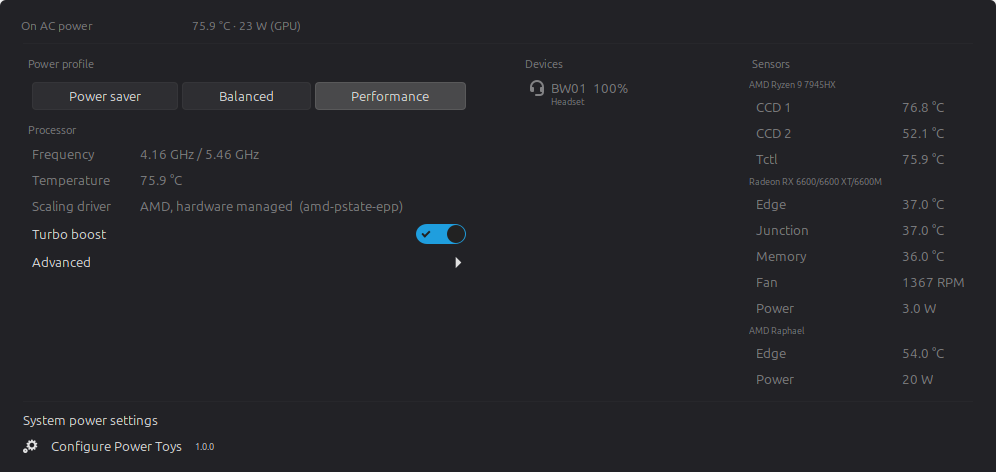
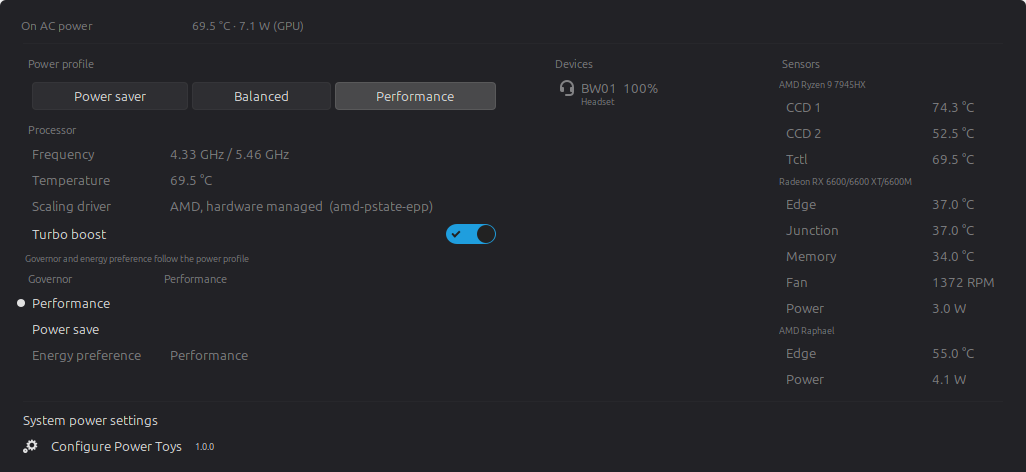
feat: show the processor settings instead of hiding them behind Advanced
The governor and the energy preference were behind a disclosure, on the
reasoning that they are what a profile sets and are rarely worth changing by
hand. What that produced was a menu that hid two of the processor's own
settings behind a click and gave no hint of what was under it - and a
disclosure is a promise that what is inside is different in kind, which these
are not. They are two more processor settings, and they are shown.

The line saying who writes them comes out with them and now names them:
sitting under the turbo boost switch, "set by the power profile" could be read
as covering the switch too, which power-profiles-daemon does not necessarily
touch. It appears only where a daemon is really holding them and there is
something for it to describe.

Notes stopped setting the width of the column they are in. A note is a
sentence, and a sentence in the first column made that column as wide as the
sentence and pushed every value in the group out to the right of it - this one
cost the menu a hundred pixels before NoteRow was taught to answer nothing
when the menu asks how wide its columns want to be. The monitor limit note is
the same widget and gains the same fix.

PopupSubMenuMenuItem is no longer used anywhere, so it leaves the list of
Cinnamon calls the README tracks against 5.4.

diff --git a/cinnamon-powertoys@geraldo-netto/applet.js b/cinnamon-powertoys@geraldo-netto/applet.js
@@ -604,6 +604,30 @@ class InfoRow extends PopupMenu.PopupBaseMenuItem {
 }
 
 /*
+ * A line about the rows around it rather than a row among them: how many
+ * monitors get a slider, who else is writing the two settings below.
+ *
+ * It answers nothing when the menu asks how wide its columns want to be. A
+ * note is a sentence, and a sentence in the first column made that column as
+ * wide as the sentence, pushing every value in the group out to the right of
+ * it - one remark cost the menu a hundred and thirty pixels. It takes whatever
+ * width the rows that mean something came to, and is cut off if it does not
+ * fit, which is the right way round.
+ */
+class NoteRow extends PopupMenu.PopupBaseMenuItem {
+    _init(text) {
+        super._init.call(this, { reactive: false });
+        this.actor.add_style_class_name("powertoys-note");
+        this._label = new St.Label({ text: text });
+        this.addActor(this._label, { span: -1, expand: true });
+    }
+
+    getColumnWidths() {
+        return [];
+    }
+}
+
+/*
  * Two line entry for one powered device: title with icon, details below.
  *
  * It is handed a view model and sets what it is told. It used to be handed
@@ -1201,11 +1225,16 @@ class MenuPresenter {
     /*
      * What the processor is doing, and what it has been told to do.
      *
-     * The profile above is what most people will ever touch; the governor and
-     * the energy preference are what a profile sets, and setting them by hand
-     * means overriding a daemon that will set them back. They are worth having
-     * and they are not worth four rows of a menu that is read at a glance, so
-     * they are behind Advanced.
+     * All of it, in the order it is asked about: the three readings, then the
+     * three things that can be changed.
+     *
+     * The governor and the energy preference were behind an *Advanced*
+     * disclosure, on the reasoning that they are what a profile sets and are
+     * rarely worth changing by hand. What that produced was a menu which hid
+     * two of the processor's own settings behind a click and gave no hint of
+     * what was under it - and a disclosure is a promise that what is inside is
+     * different in kind, which these are not. They are two more processor
+     * settings. They are shown.
      */
     _buildCpuGroup() {
         this._cpuGroup = this._performanceColumn.group(_("Processor"));
@@ -1224,28 +1253,29 @@ class MenuPresenter {
         this._boostSwitch.connect("toggled", (item, state) => this._actions.setBoost(state));
         menu.addMenuItem(this._boostSwitch);
 
-        this._advanced = new PopupMenu.PopupSubMenuMenuItem(_("Advanced"));
-        menu.addMenuItem(this._advanced);
-
         /*
-         * Who owns these two, said once, where they are.
+         * Who owns the two below, said where they are.
          *
-         * The profile above and the governor and energy preference in here
-         * read the same word - "Performance", three times over - because the
-         * first is what wrote the other two. Nothing in the menu said so, and
-         * three controls agreeing for no stated reason read as three copies of
-         * one setting. Only shown where a daemon is really holding them: the
-         * ACPI platform profile writes firmware and never touches cpufreq, and
-         * on a machine with no profiles at all these are the only controls
-         * there are.
+         * The profile at the top of this column and these two read the same
+         * word - "Performance", three times over - because the first is what
+         * wrote the other two. Three controls agreeing for no stated reason
+         * read as three copies of one setting. Both are named rather than the
+         * line saying "these", because it now sits under the boost switch,
+         * which power-profiles-daemon does not necessarily touch and which
+         * this must not be read as covering.
+         *
+         * Only shown where a daemon is really holding them: the ACPI platform
+         * profile writes firmware and never goes near cpufreq, and on a machine
+         * with no profiles at all these are the only controls there are.
          */
-        this._advancedNote = this._createNote(_("Set by the power profile"));
-        this._advanced.menu.addMenuItem(this._advancedNote);
+        this._governorNote =
+            this._createNote(_("Governor and energy preference follow the power profile"));
+        menu.addMenuItem(this._governorNote);
 
-        this._governorControl = new ChoiceControl(this._advanced.menu, _("Governor"),
+        this._governorControl = new ChoiceControl(menu, _("Governor"),
                                                   Format.governorLabel,
                                                   value => this._actions.setGovernor(value));
-        this._energyControl = new ChoiceControl(this._advanced.menu, _("Energy preference"),
+        this._energyControl = new ChoiceControl(menu, _("Energy preference"),
                                                 Format.energyPreferenceLabel,
                                                 value => this._actions.setEnergyPreference(value));
     }
@@ -1378,17 +1408,10 @@ class MenuPresenter {
         return heading;
     }
 
-    /*
-     * A line about the list rather than a line in it.
-     *
-     * Drawn at the weight of a reading, "Only the first 10 monitors have a
-     * slider" reads as an eleventh monitor called that. It is a footnote, and
-     * the only one in this menu, so it is quieter than what it follows.
-     */
+    /* Drawn at the weight of a reading, "Only the first 10 monitors have a
+     * slider" reads as an eleventh monitor called that. See NoteRow. */
     _createNote(text) {
-        let note = new PopupMenu.PopupMenuItem(text, { reactive: false });
-        note.actor.add_style_class_name("powertoys-note");
-        return note;
+        return new NoteRow(text);
     }
 
     _addBacklight(label, iconName, control) {
@@ -1542,23 +1565,14 @@ class MenuPresenter {
          * here holds until then and no longer. The two are left changeable,
          * because until then it does work and some people want it; what they
          * were not was honest about who else is writing them.
+         *
+         * The line goes with them, so it is not there when they are not: a
+         * machine with no cpufreq has neither row for it to describe.
          */
-        this._advancedNote.actor.visible = data.profile.available &&
-                                           !!data.profile.backend &&
-                                           data.profile.backend !== PowerSupply.PLATFORM_BACKEND;
-
-        /*
-         * Advanced is only there when there is something behind it. On a
-         * machine with no cpufreq governors to read, or with the privileged
-         * controls switched off and nothing to report either, it would open
-         * onto nothing - which is worse than not being offered.
-         */
-        let advanced = !!data.cpu.governor || !!data.cpu.energyPreference ||
-                       (editable && (data.cpu.governors.length > 0 ||
-                                     data.cpu.energyPreferences.length > 0));
-        this._advanced.actor.visible = advanced;
-        if (!advanced && this._advanced.menu.isOpen)
-            this._advanced.menu.close(false);
+        let daemonOwned = data.profile.available && !!data.profile.backend &&
+                          data.profile.backend !== PowerSupply.PLATFORM_BACKEND;
+        this._governorNote.actor.visible = daemonOwned &&
+                                           (!!data.cpu.governor || !!data.cpu.energyPreference);
 
         this._boostSwitch.actor.visible = data.cpu.boostSupported;
         if (data.cpu.boostSupported) {

diff --git a/README.md b/README.md
@@ -60,18 +60,19 @@ application is holding a profile. On machines without the daemon it falls back
 to the ACPI platform profile in `/sys/firmware/acpi/platform_profile`.
 
 **CPU.** Current and maximum frequency, scaling driver (including the
-`amd_pstate` mode) and turbo boost, with the governor and the energy
-performance preference behind *Advanced*. Those two are what a power profile
-sets, so where power-profiles-daemon is running *Advanced* says so: without
-that line the profile and the two settings under it read the same word for no
-stated reason, which looks like three copies of one control rather than one
-control and its two outputs. They stay changeable — a governor set by hand
-holds until the next profile change or mains transition — but nothing pretends
-the daemon has stopped writing them. Where a setting has only one value to
-offer, and `amd_pstate` narrows the energy preferences to exactly one, it is
-shown as a value rather than as a choice of one. Governor, energy preference,
-boost and the battery charge limit are kernel owned, so they are applied
-through a small validating helper launched with `pkexec`.
+`amd_pstate` mode), turbo boost, governor and energy performance preference —
+all of it on screen, none of it behind a disclosure. The last two are what a
+power profile sets, so where power-profiles-daemon is running the menu says
+which of them it is writing: without that line the profile and the two
+settings below it read the same word for no stated reason, which looks like
+three copies of one control rather than one control and its two outputs. They
+stay changeable — a governor set by hand holds until the next profile change
+or mains transition — but nothing pretends the daemon has stopped writing
+them. Where a setting has only one value to offer, and `amd_pstate` narrows
+the energy preferences to exactly one, it is shown as a value rather than as a
+choice of one. Governor, energy preference, boost and the battery charge limit
+are kernel owned, so they are applied through a small validating helper
+launched with `pkexec`.
 
 **Temperature and power.** Every hwmon and thermal zone sensor plus fan speeds,
 hwmon power meters (for example the amdgpu GPU package power), RAPL package
@@ -225,7 +226,6 @@ settings.
   override so their rows line up with themselves and not with the whole menu —
   and which the segmented profile control overrides for the opposite reason, so
   that a row spanning every column does not set the width of the first one.
-  `PopupSubMenuMenuItem` and its `menu`, which is what *Advanced* is.
   `PopupSwitchMenuItem`, `PopupSliderMenuItem`, `PopupIconMenuItem`.
   `PopupBaseMenuItem`'s `{ activate: false, hover: false }`, which is how a row
   of buttons takes key focus without being a menu entry itself. `St.Button` and
